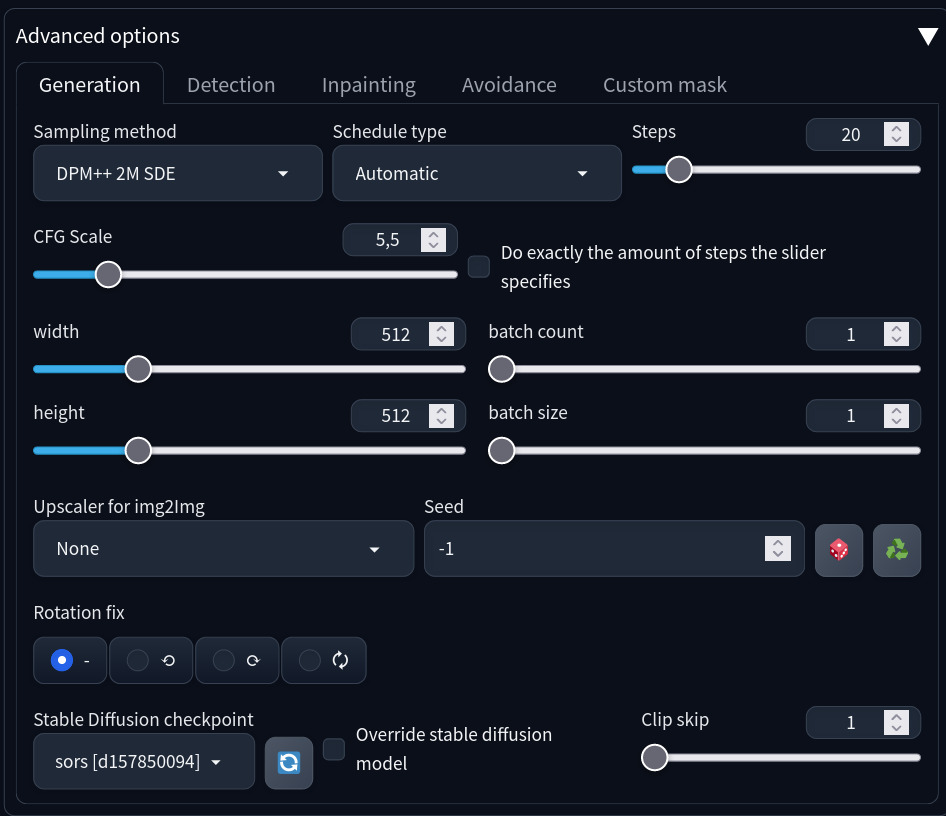
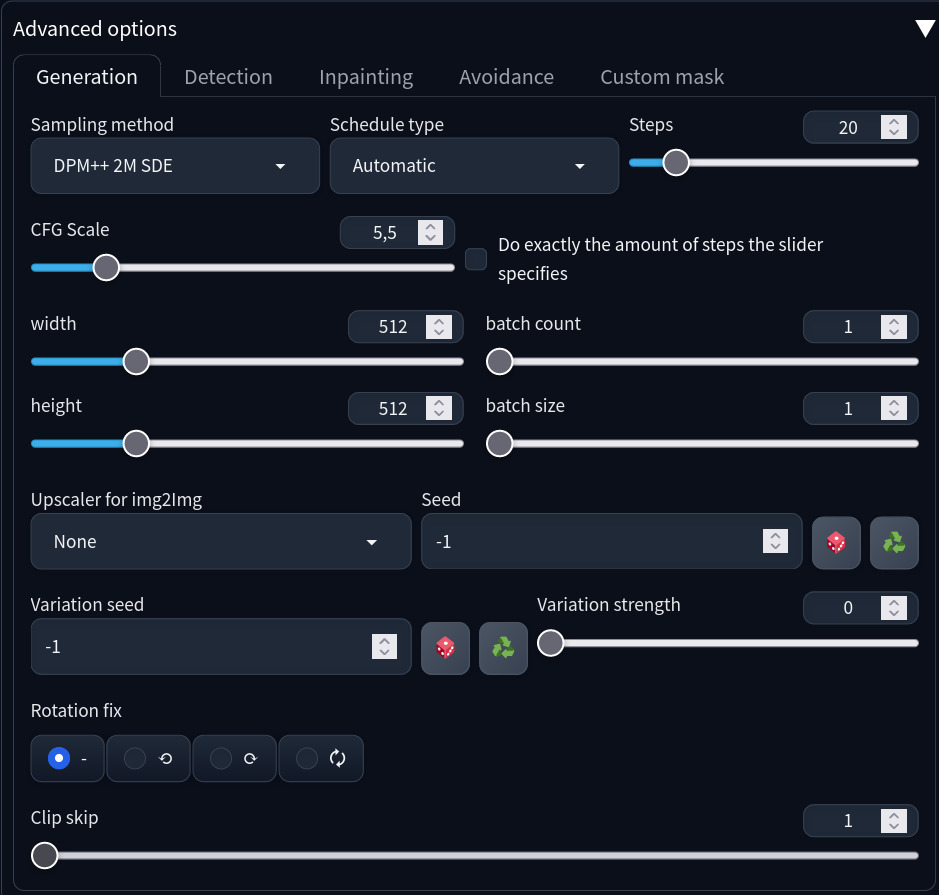
add variation seed

diff --git a/replacer/ui/make_advanced_options.py b/replacer/ui/make_advanced_options.py
@@ -76,10 +76,7 @@ def makeAdvancedOptions(comp: AttrDict, isDedicatedPage: bool):
                         elem_id="replacer_upscaler_for_img2img",
                     )
 
-                    if shared.cmd_opts.use_textbox_seed:
-                        comp.seed = gr.Textbox(label='Seed', value="", elem_id="replacer_seed", min_width=100)
-                    else:
-                        comp.seed = gr.Number(label='Seed', value=-1, elem_id="replacer_seed", min_width=100, precision=0)
+                    comp.seed = gr.Number(label='Seed', value=-1, elem_id="replacer_seed", min_width=100, precision=0)
 
                     comp.random_seed = ToolButton(
                         ui.random_symbol,
@@ -91,6 +88,25 @@ def makeAdvancedOptions(comp: AttrDict, isDedicatedPage: bool):
                         elem_id="replacer_reuse_seed",
                         label='Reuse seed'
                     )
+
+                with gr.Row():
+                    comp.variation_seed = gr.Number(label='Variation seed', value=-1, elem_id="replacer_variation_seed", min_width=100, precision=0)
+
+                    comp.random_variation_seed = ToolButton(
+                        ui.random_symbol,
+                        elem_id="replacer_random_variation_seed",
+                        label='Random variation seed'
+                    )
+                    comp.reuse_variation_seed = ToolButton(
+                        ui.reuse_symbol,
+                        elem_id="replacer_reuse_variation_seed",
+                        label='Reuse variation seed'
+                    )
+
+                    comp.variation_strength = gr.Slider(label='Variation strength',
+                        value=0.0, elem_id="replacer_variation_strength",
+                        minimum=0.0, maximum=1.0, step=0.01)
+
 
                 with gr.Row():
                     comp.rotation_fix = gr.Radio(label='Rotation fix',

diff --git a/replacer/ui/replacer_tab_ui.py b/replacer/ui/replacer_tab_ui.py
@@ -2,7 +2,7 @@ import gradio as gr
 from modules import shared, ui_settings, errors, infotext_utils
 from modules.call_queue import wrap_gradio_gpu_call, wrap_queued_call
 from modules.ui_common import create_output_panel, update_generation_info
-from replacer.ui.generate_ui import generate_ui, getLastUsedSeed
+from replacer.ui.generate_ui import generate_ui, getLastUsedSeed, getLastUsedVariationSeed
 from replacer.ui.apply_hires_fix import applyHiresFix
 from replacer.options import (EXT_NAME, getSaveDir, getDetectionPromptExamples,
     getPositivePromptExamples, getNegativePromptExamples, useFirstPositivePromptFromExamples,
@@ -338,6 +338,8 @@ class ReplacerMainUI:
                     comp.do_not_use_mask,
                     comp.selected_video_mode,
                     comp.rotation_fix,
+                    comp.variation_seed,
+                    comp.variation_strength,
 
                     comp.ad_fragment_length,
                     comp.ad_internal_fps,
@@ -436,6 +438,23 @@ class ReplacerMainUI:
                 inputs=[],
                 outputs=[
                     comp.seed,
+                ]
+            )
+
+            comp.random_variation_seed.click(
+                fn=lambda: -1,
+                inputs=[
+                ],
+                outputs=[
+                    comp.variation_seed,
+                ]
+            )
+
+            comp.reuse_variation_seed.click(
+                fn=getLastUsedVariationSeed,
+                inputs=[],
+                outputs=[
+                    comp.variation_seed,
                 ]
             )
 

diff --git a/scripts/replacer_script.py b/scripts/replacer_script.py
@@ -106,6 +106,8 @@ class ReplacerScript(scripts.Script):
                 comp.save_before_hires_fix,
                 comp.do_not_use_mask,
                 comp.rotation_fix,
+                comp.variation_seed,
+                comp.variation_strength,
 
                 comp.hf_upscaler,
                 comp.hf_steps,
@@ -199,6 +201,8 @@ class ReplacerScript(scripts.Script):
         save_before_hires_fix,
         do_not_use_mask,
         rotation_fix,
+        variation_seed,
+        variation_strength,
 
         hf_upscaler,
         hf_steps,
@@ -310,6 +314,8 @@ class ReplacerScript(scripts.Script):
             do_not_use_mask=do_not_use_mask,
             animatediff_args=DUMMY_ANIMATEDIFF_ARGS,
             rotation_fix=rotation_fix,
+            variation_seed=variation_seed,
+            variation_strength=variation_strength,
 
             hires_fix_args=hires_fix_args,
             cn_args=cn_args,

diff --git a/replacer/ui/generate_ui.py b/replacer/ui/generate_ui.py
@@ -21,6 +21,12 @@ def getLastUsedSeed():
         return lastGenerationArgs.seed
 
 
+def getLastUsedVariationSeed():
+    if lastGenerationArgs is None:
+        return -1
+    else:
+        return lastGenerationArgs.variation_seed
+
 
 def generate_ui_(
     id_task,
@@ -79,6 +85,8 @@ def generate_ui_(
     do_not_use_mask,
     selected_video_mode: str,
     rotation_fix: str,
+    variation_seed: int,
+    variation_strength: float,
 
     ad_fragment_length,
     ad_internal_fps,
@@ -276,6 +284,8 @@ def generate_ui_(
         do_not_use_mask=do_not_use_mask,
         animatediff_args=animatediff_args,
         rotation_fix=rotation_fix,
+        variation_seed=variation_seed,
+        variation_strength=variation_strength,
 
         hires_fix_args=hires_fix_args,
         cn_args=cn_args,

diff --git a/scripts/replacer_api.py b/scripts/replacer_api.py
@@ -54,6 +54,8 @@ def replacer_api(_, app: FastAPI):
         clip_skip: int = 1
         rotation_fix: str = '-' # choices: '-', '⟲', '⟳', '🗘'
         extra_include: list = ["mask", "box", "cut", "preview", "script"]
+        variation_seed: int = -1
+        variation_strength: float = 0.0
 
         use_hires_fix: bool = False
         hf_upscaler: str = "ESRGAN_4x"
@@ -151,6 +153,8 @@ def replacer_api(_, app: FastAPI):
             do_not_use_mask=False,
             animatediff_args=DUMMY_ANIMATEDIFF_ARGS,
             rotation_fix=data.rotation_fix,
+            variation_seed=data.variation_seed,
+            variation_strength=data.variation_strength,
 
             hires_fix_args=hires_fix_args,
             cn_args=cn_args,

diff --git a/replacer/ui/tools_ui.py b/replacer/ui/tools_ui.py
@@ -137,6 +137,9 @@ def prepareExpectedUIBehavior(gArgs: GenerationArgs):
     if (gArgs.seed == -1):
         gArgs.seed = generateSeed()
 
+    if (gArgs.variation_seed == -1):
+        gArgs.variation_seed = generateSeed()
+
     gArgs.detectionPrompt = gArgs.detectionPrompt.strip()
     gArgs.avoidancePrompt = gArgs.avoidancePrompt.strip()
     if gArgs.inpainting_mask_invert:

diff --git a/replacer/inpaint.py b/replacer/inpaint.py
@@ -65,6 +65,8 @@ def inpaint(
         inpainting_mask_invert=gArgs.inpainting_mask_invert,
         override_settings=override_settings,
         do_not_save_samples=True,
+        subseed=gArgs.variation_seed,
+        subseed_strength=gArgs.variation_strength,
         **schedulerKWargs,
     )
 

diff --git a/replacer/generation_args.py b/replacer/generation_args.py
@@ -108,6 +108,8 @@ class GenerationArgs:
     do_not_use_mask: bool
     animatediff_args: AnimateDiffArgs
     rotation_fix: str
+    variation_seed: int
+    variation_strength: float
 
     hires_fix_args: HiresFixArgs
     cn_args: list

diff --git a/docs/api.md b/docs/api.md
@@ -33,7 +33,9 @@ API is available on `/replacer/replace`
     lama_cleaner_upscaler: str = ""
     clip_skip: int = 1
     rotation_fix: str = '-' # choices: '-', '⟲', '⟳', '🗘'
-    extra_include: list = ["mask", "box", "cutted", "preview", "script"]
+    extra_include: list = ["mask", "box", "cut", "preview", "script"]
+    variation_seed: int = -1
+    variation_strength: float = 0.0
 
     use_hires_fix: bool = False
     hf_upscaler: str = "ESRGAN_4x"
